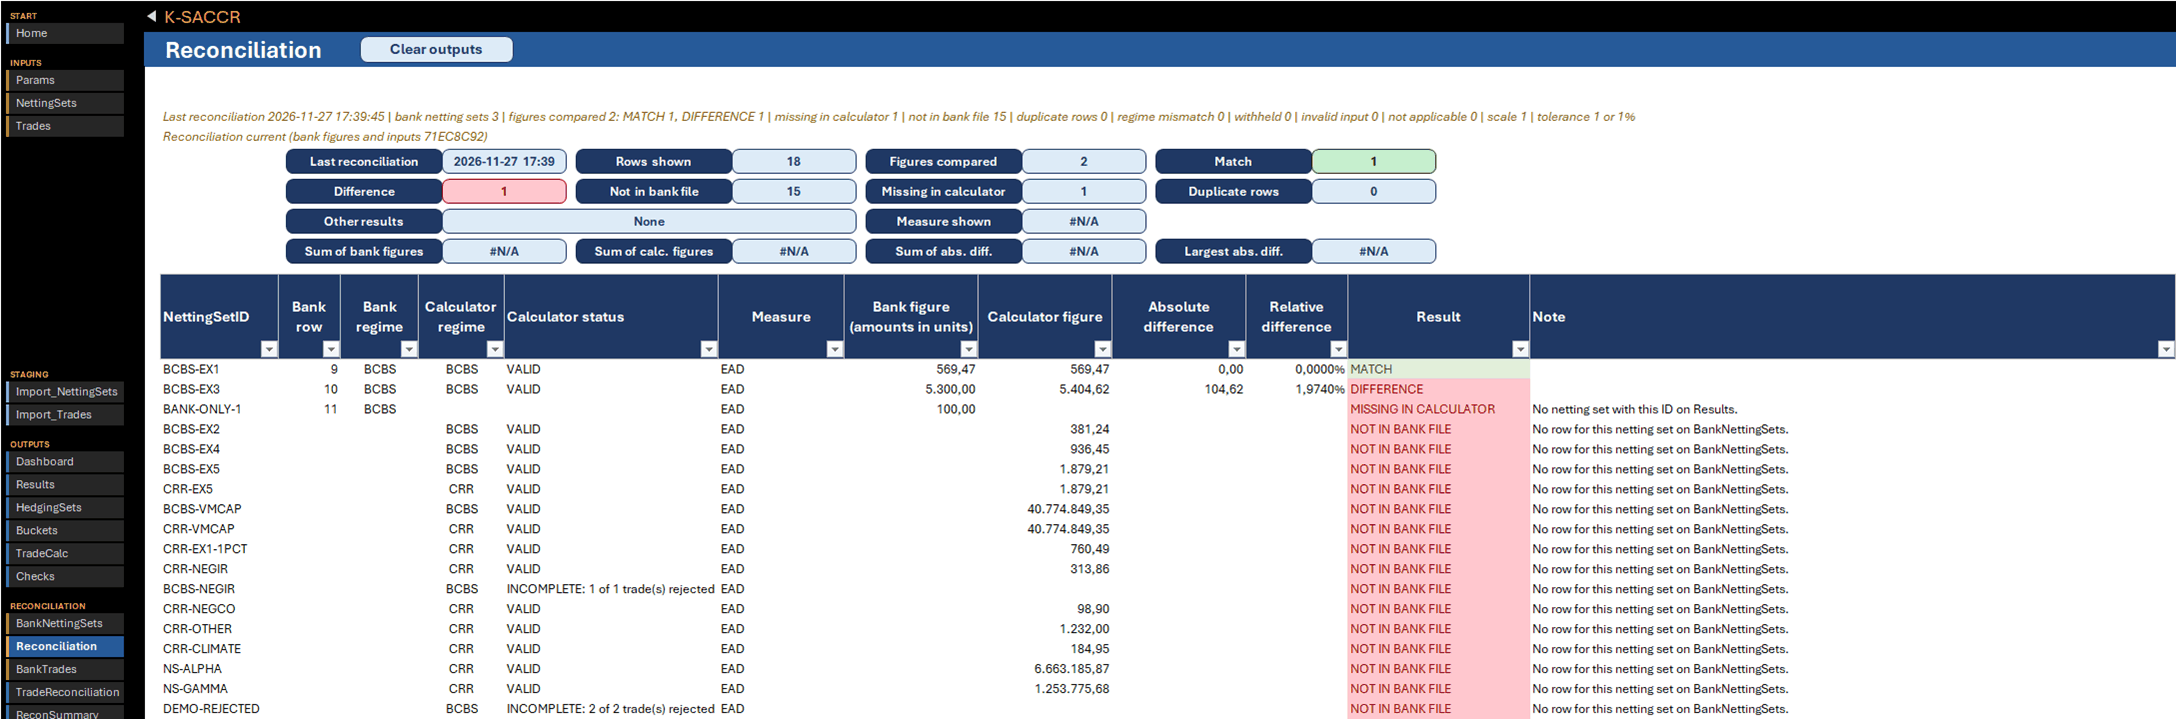
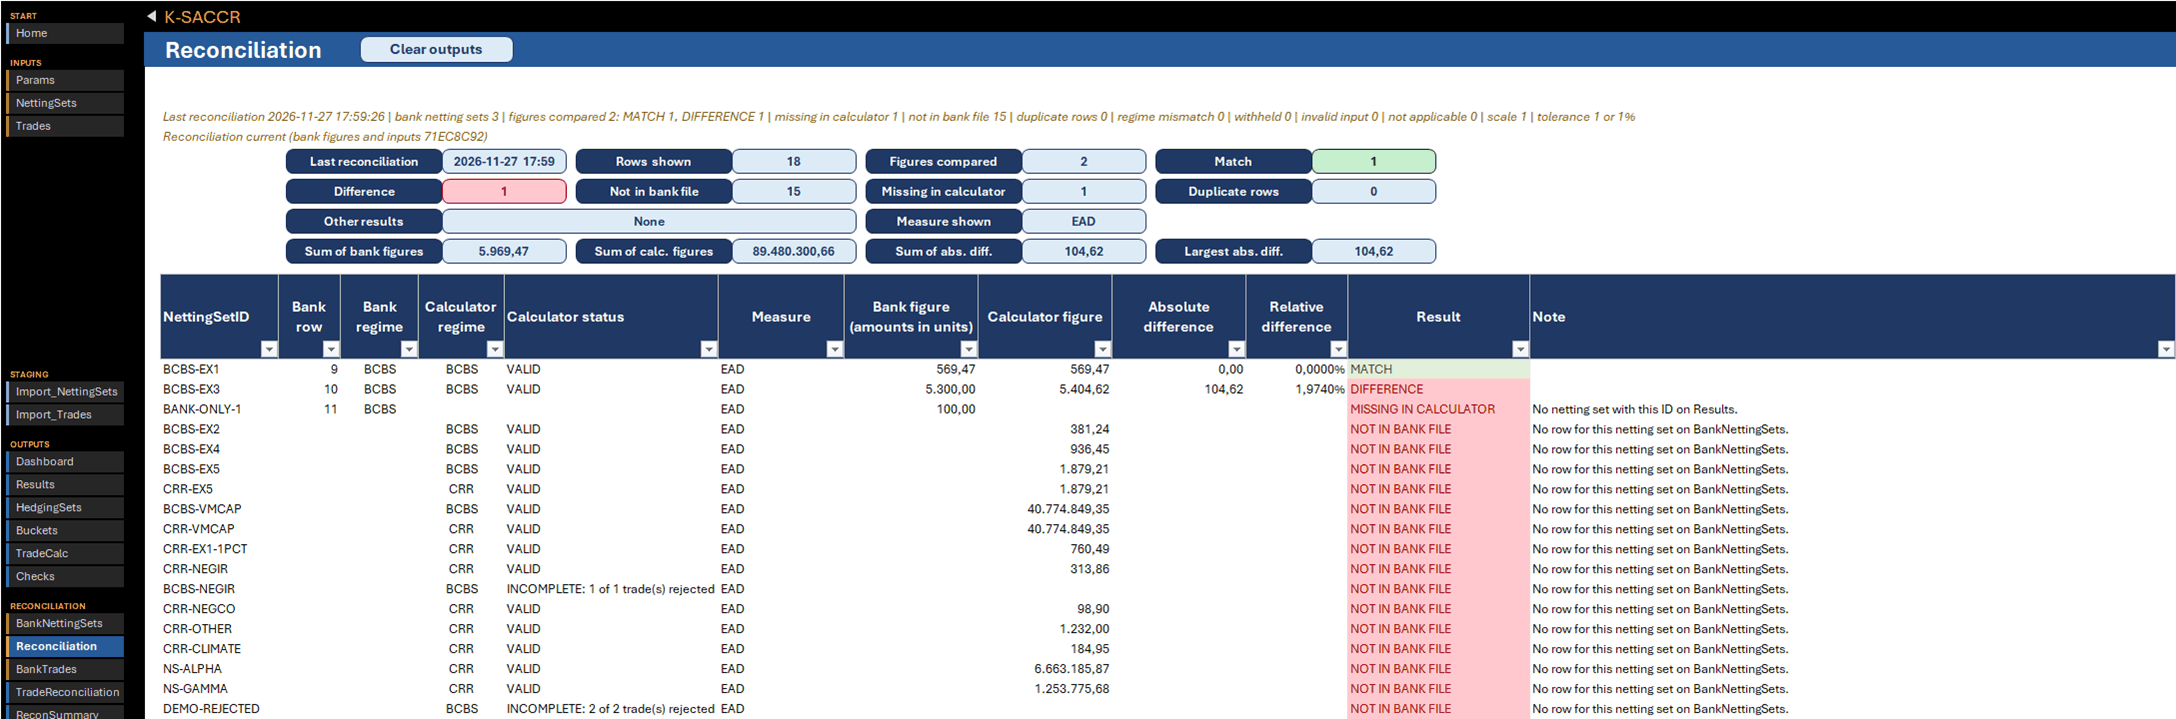
Reconciliation picture retaken with the tiles of the measure shown (#819)
Claude-Session: https://claude.ai/code/session_01NMNBCxzS8QdbXRLZk1xSqX

diff --git a/README.md b/README.md
@@ -598,7 +598,7 @@ netting set whose EAD is withheld as a result:
 
 <p align="center">
   <img width="100%"
-       alt="Reconciliation sheet: the bank's EAD for BCBS-EX1 is a MATCH, for BCBS-EX3 a DIFFERENCE of 104.62 (1.9740%, beyond the relative tolerance of 1%), an unknown bank netting set is MISSING IN CALCULATOR, and every other netting set is NOT IN BANK FILE, each with its note"
+       alt="Reconciliation sheet: tiles with the counts of each result, the measure shown (EAD) and its sums; the bank's EAD for BCBS-EX1 is a MATCH, for BCBS-EX3 a DIFFERENCE of 104.62 (1.9740%, beyond the relative tolerance of 1%), an unknown bank netting set is MISSING IN CALCULATOR, and every other netting set is NOT IN BANK FILE, each with its note"
        src="docs/assets/SACCR_Reconciliation.png">
 </p>
 
